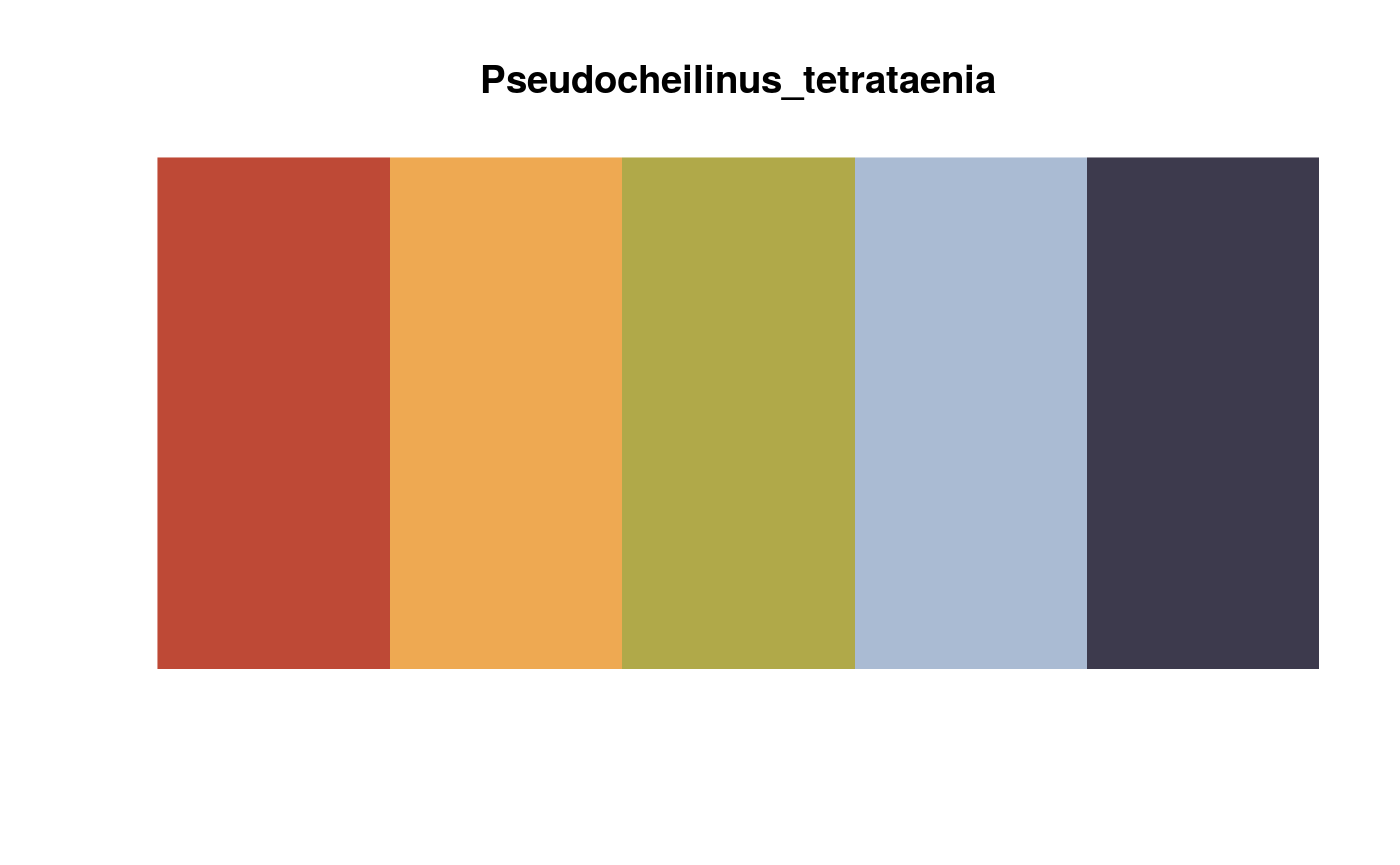
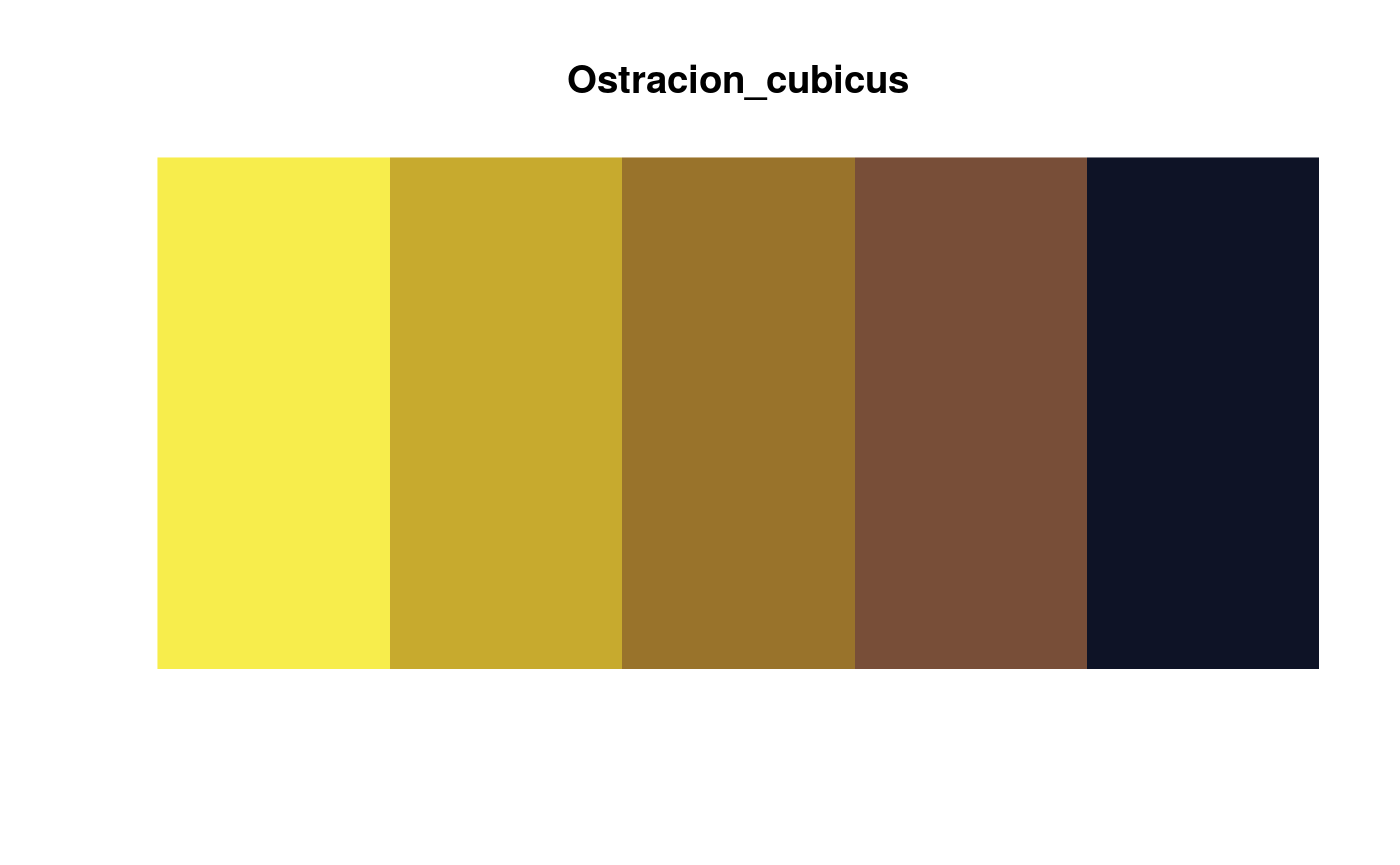
adding fish; update website

diff --git a/docs/articles/overview_colors.html b/docs/articles/overview_colors.html
@@ -79,7 +79,7 @@
     <div class="page-header toc-ignore">
       <h1>Overview fishualize palettes</h1>
             
-            <h4 class="date">2019-09-30</h4>
+            <h4 class="date">2019-10-01</h4>
       
       <small class="dont-index">Source: <a href="https://github.com/nschiett/fishualize/blob/master/vignettes/overview_colors.Rmd"><code>vignettes/overview_colors.Rmd</code></a></small>
       <div class="hidden name"><code>overview_colors.Rmd</code></div>
@@ -88,7 +88,7 @@
 
     
     
-<p><img src="overview_colors_files/figure-html/unnamed-chunk-2-1.png" width="700"><img src="overview_colors_files/figure-html/unnamed-chunk-2-2.png" width="700"><img src="overview_colors_files/figure-html/unnamed-chunk-2-3.png" width="700"><img src="overview_colors_files/figure-html/unnamed-chunk-2-4.png" width="700"><img src="overview_colors_files/figure-html/unnamed-chunk-2-5.png" width="700"><img src="overview_colors_files/figure-html/unnamed-chunk-2-6.png" width="700"><img src="overview_colors_files/figure-html/unnamed-chunk-2-7.png" width="700"><img src="overview_colors_files/figure-html/unnamed-chunk-2-8.png" width="700"><img src="overview_colors_files/figure-html/unnamed-chunk-2-9.png" width="700"><img src="overview_colors_files/figure-html/unnamed-chunk-2-10.png" width="700"><img src="overview_colors_files/figure-html/unnamed-chunk-2-11.png" width="700"><img src="overview_colors_files/figure-html/unnamed-chunk-2-12.png" width="700"><img src="overview_colors_files/figure-html/unnamed-chunk-2-13.png" width="700"><img src="overview_colors_files/figure-html/unnamed-chunk-2-14.png" width="700"><img src="overview_colors_files/figure-html/unnamed-chunk-2-15.png" width="700"><img src="overview_colors_files/figure-html/unnamed-chunk-2-16.png" width="700"><img src="overview_colors_files/figure-html/unnamed-chunk-2-17.png" width="700"><img src="overview_colors_files/figure-html/unnamed-chunk-2-18.png" width="700"><img src="overview_colors_files/figure-html/unnamed-chunk-2-19.png" width="700"><img src="overview_colors_files/figure-html/unnamed-chunk-2-20.png" width="700"><img src="overview_colors_files/figure-html/unnamed-chunk-2-21.png" width="700"><img src="overview_colors_files/figure-html/unnamed-chunk-2-22.png" width="700"><img src="overview_colors_files/figure-html/unnamed-chunk-2-23.png" width="700"><img src="overview_colors_files/figure-html/unnamed-chunk-2-24.png" width="700"><img src="overview_colors_files/figure-html/unnamed-chunk-2-25.png" width="700"><img src="overview_colors_files/figure-html/unnamed-chunk-2-26.png" width="700"><img src="overview_colors_files/figure-html/unnamed-chunk-2-27.png" width="700"><img src="overview_colors_files/figure-html/unnamed-chunk-2-28.png" width="700"><img src="overview_colors_files/figure-html/unnamed-chunk-2-29.png" width="700"><img src="overview_colors_files/figure-html/unnamed-chunk-2-30.png" width="700"><img src="overview_colors_files/figure-html/unnamed-chunk-2-31.png" width="700"><img src="overview_colors_files/figure-html/unnamed-chunk-2-32.png" width="700"><img src="overview_colors_files/figure-html/unnamed-chunk-2-33.png" width="700"><img src="overview_colors_files/figure-html/unnamed-chunk-2-34.png" width="700"><img src="overview_colors_files/figure-html/unnamed-chunk-2-35.png" width="700"></p>
+<p><img src="overview_colors_files/figure-html/unnamed-chunk-2-1.png" width="700"><img src="overview_colors_files/figure-html/unnamed-chunk-2-2.png" width="700"><img src="overview_colors_files/figure-html/unnamed-chunk-2-3.png" width="700"><img src="overview_colors_files/figure-html/unnamed-chunk-2-4.png" width="700"><img src="overview_colors_files/figure-html/unnamed-chunk-2-5.png" width="700"><img src="overview_colors_files/figure-html/unnamed-chunk-2-6.png" width="700"><img src="overview_colors_files/figure-html/unnamed-chunk-2-7.png" width="700"><img src="overview_colors_files/figure-html/unnamed-chunk-2-8.png" width="700"><img src="overview_colors_files/figure-html/unnamed-chunk-2-9.png" width="700"><img src="overview_colors_files/figure-html/unnamed-chunk-2-10.png" width="700"><img src="overview_colors_files/figure-html/unnamed-chunk-2-11.png" width="700"><img src="overview_colors_files/figure-html/unnamed-chunk-2-12.png" width="700"><img src="overview_colors_files/figure-html/unnamed-chunk-2-13.png" width="700"><img src="overview_colors_files/figure-html/unnamed-chunk-2-14.png" width="700"><img src="overview_colors_files/figure-html/unnamed-chunk-2-15.png" width="700"><img src="overview_colors_files/figure-html/unnamed-chunk-2-16.png" width="700"><img src="overview_colors_files/figure-html/unnamed-chunk-2-17.png" width="700"><img src="overview_colors_files/figure-html/unnamed-chunk-2-18.png" width="700"><img src="overview_colors_files/figure-html/unnamed-chunk-2-19.png" width="700"><img src="overview_colors_files/figure-html/unnamed-chunk-2-20.png" width="700"><img src="overview_colors_files/figure-html/unnamed-chunk-2-21.png" width="700"><img src="overview_colors_files/figure-html/unnamed-chunk-2-22.png" width="700"><img src="overview_colors_files/figure-html/unnamed-chunk-2-23.png" width="700"><img src="overview_colors_files/figure-html/unnamed-chunk-2-24.png" width="700"><img src="overview_colors_files/figure-html/unnamed-chunk-2-25.png" width="700"><img src="overview_colors_files/figure-html/unnamed-chunk-2-26.png" width="700"><img src="overview_colors_files/figure-html/unnamed-chunk-2-27.png" width="700"><img src="overview_colors_files/figure-html/unnamed-chunk-2-28.png" width="700"><img src="overview_colors_files/figure-html/unnamed-chunk-2-29.png" width="700"><img src="overview_colors_files/figure-html/unnamed-chunk-2-30.png" width="700"><img src="overview_colors_files/figure-html/unnamed-chunk-2-31.png" width="700"><img src="overview_colors_files/figure-html/unnamed-chunk-2-32.png" width="700"><img src="overview_colors_files/figure-html/unnamed-chunk-2-33.png" width="700"><img src="overview_colors_files/figure-html/unnamed-chunk-2-34.png" width="700"><img src="overview_colors_files/figure-html/unnamed-chunk-2-35.png" width="700"><img src="overview_colors_files/figure-html/unnamed-chunk-2-36.png" width="700"><img src="overview_colors_files/figure-html/unnamed-chunk-2-37.png" width="700"><img src="overview_colors_files/figure-html/unnamed-chunk-2-38.png" width="700"><img src="overview_colors_files/figure-html/unnamed-chunk-2-39.png" width="700"><img src="overview_colors_files/figure-html/unnamed-chunk-2-40.png" width="700"></p>
   </div>
 
   <div class="col-md-3 hidden-xs hidden-sm" id="sidebar">

diff --git a/docs/reference/fish_palettes.html b/docs/reference/fish_palettes.html
@@ -147,8 +147,10 @@
 #&gt; [29] Bryaninops_natans           Scarus_quoyi               
 #&gt; [31] Synchiropus_splendidus      Oxymonacanthus_longirostris
 #&gt; [33] Balistoides_conspicillum    Nemateleotris_magnifica    
-#&gt; [35] Odonus_niger               
-#&gt; 35 Levels: Acanthurus_triostegus Aulostomus_chinensis ... Zebrasoma_velifer</div><div class='input'>
+#&gt; [35] Odonus_niger                Hypsypops_rubicundus       
+#&gt; [37] Cirrhilabrus_solorensis     Cirrhilabrus_tonozukai     
+#&gt; [39] Variola_louti               Hemitaurichthys_polylepis  
+#&gt; 40 Levels: Acanthurus_triostegus Aulostomus_chinensis ... Zebrasoma_velifer</div><div class='input'>
 </div></pre>
   </div>
   <div class="col-md-3 hidden-xs hidden-sm" id="sidebar">
